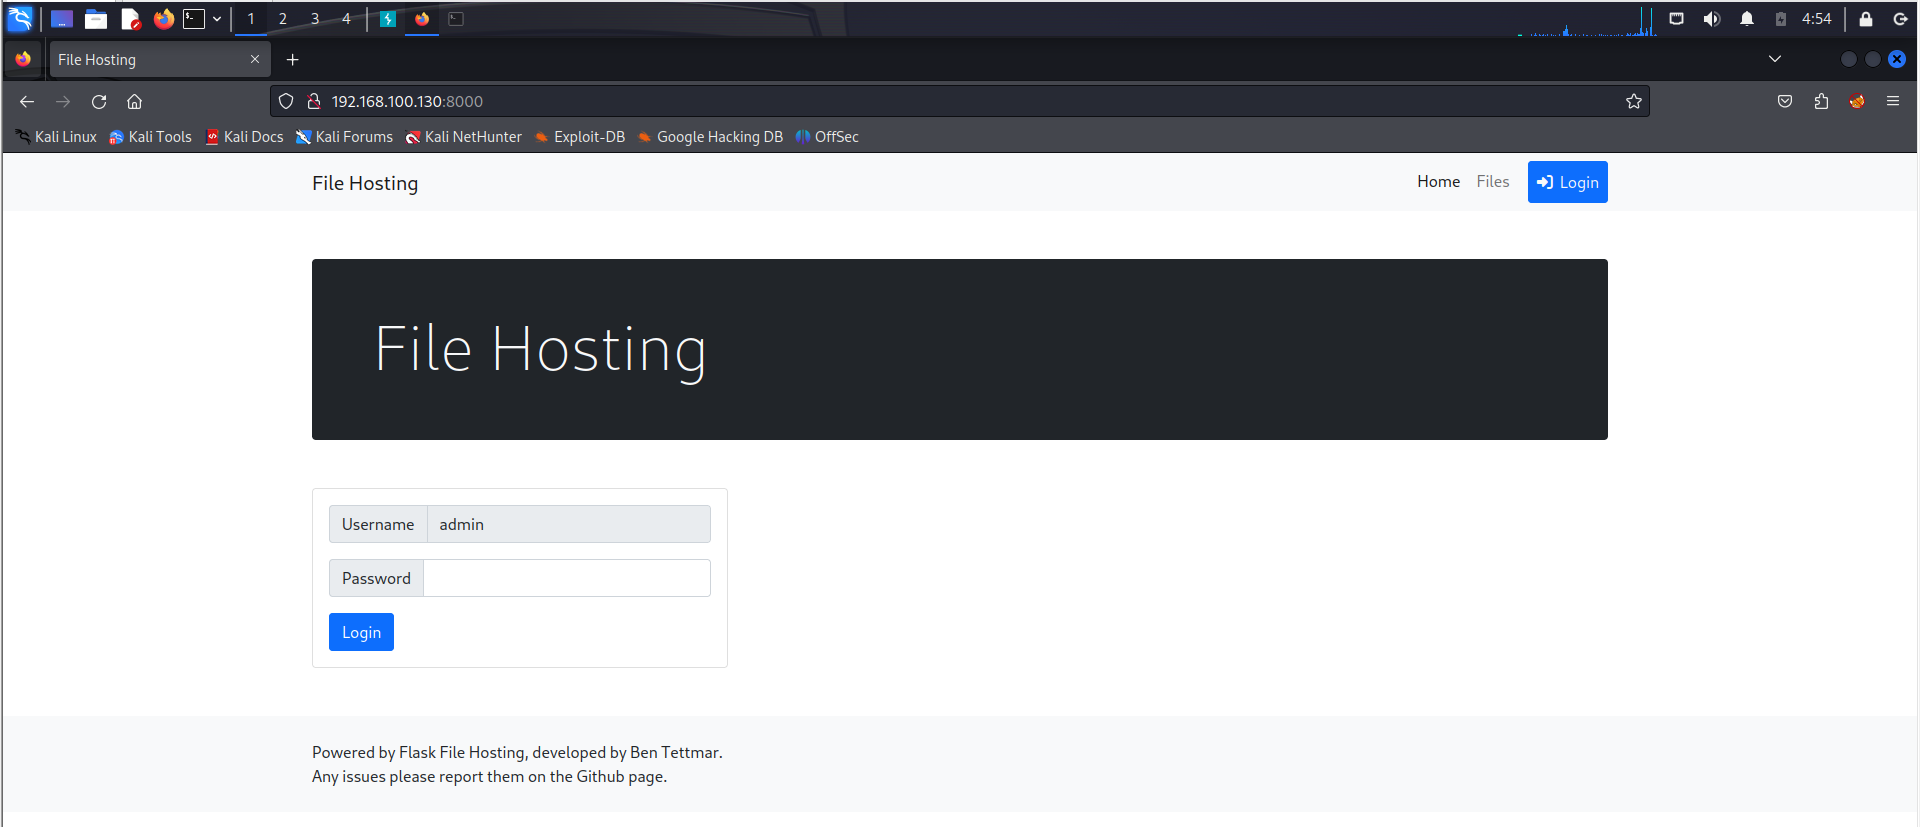
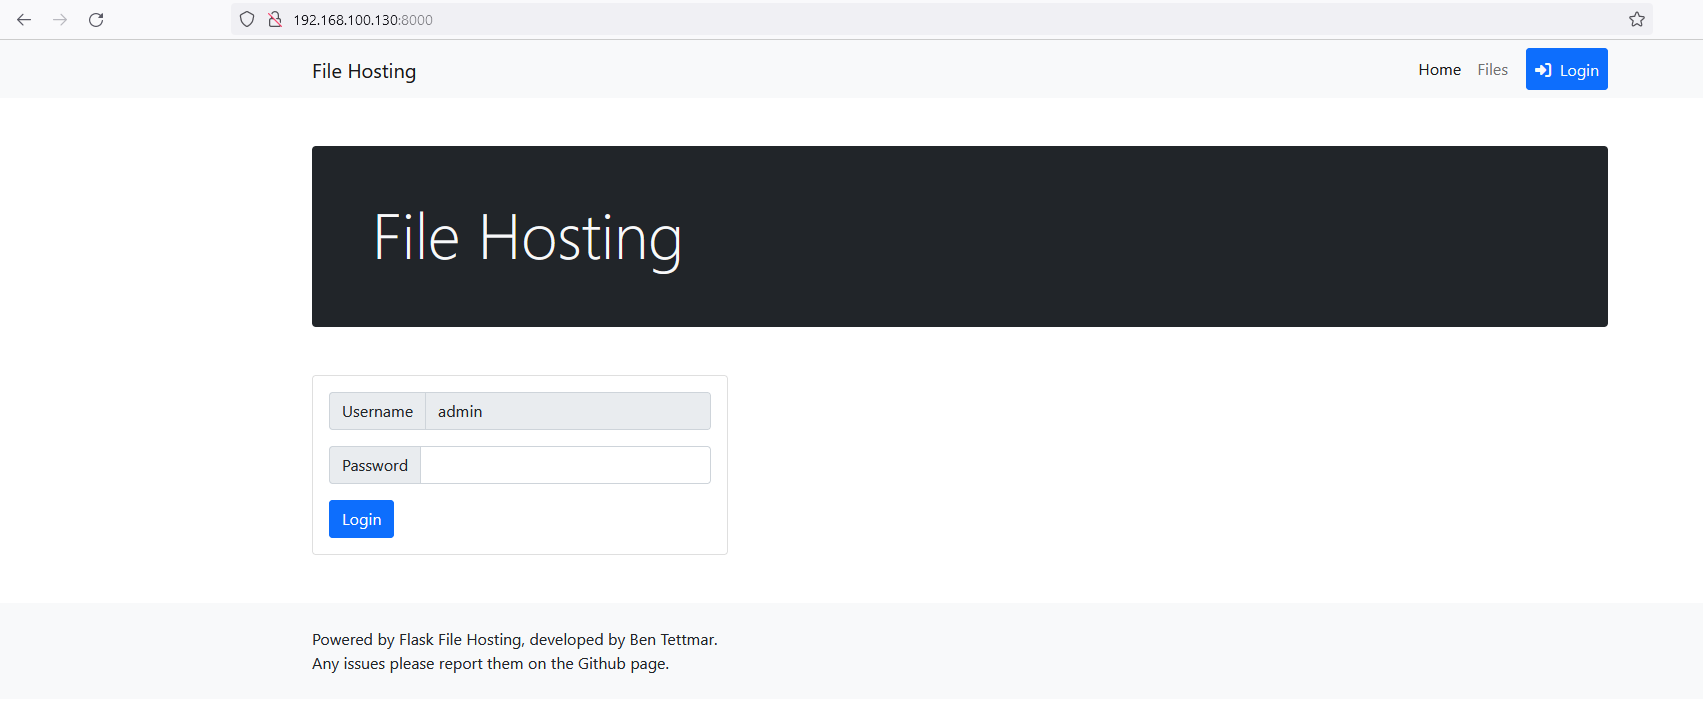
adding Captivity - more files

diff --git a/Game Of Thrones/Machines/Captivity/Walkthrough.md b/Game Of Thrones/Machines/Captivity/Walkthrough.md
@@ -47,7 +47,7 @@ PORT      STATE SERVICE
 Nmap done: 1 IP address (1 host up) scanned in 50.15 seconds
 ```
 
-
+Run service scan on open ports. 
 ```
 ┌──(kali㉿kali)-[~/Captivity]
 └─$ nmap -p21,22,53,80,88,135,139,389,445,464,593,636,3268,3269,5357,5985,8000,9389,47001 -sC -sV -T5 192.168.100.130
@@ -139,6 +139,14 @@ Service detection performed. Please report any incorrect results at https://nmap
 Nmap done: 1 IP address (1 host up) scanned in 101.55 seconds
 ```
 
+## Enumerating Services 
+
+### FTP 
+
+Nmap identified a lot of open ports. Ports 88 (kerberos) and 389 (ldap) indicate that this machine is a domain controller. 
+
+Let's start service enumeration with port 21. As shown below, anonymous login is allowed for READ access. 
+
 ```
 ┌──(kali㉿kali)-[~/Captivity]
 └─$ ftp 192.168.100.130
@@ -167,14 +175,17 @@ ftp> exit
 221 Goodbye.
 ```
 
-winrar-x64-621.exe is vulnerable to CVE-2023-38831 
+Three .exe files are hosted on /setup directory. These won't give us anything useful other than information about the installed applications on the system. For example, winrar-x64-621.exe (version 6.21) is [vulnerable](https://alirodoplu.gitbook.io/ali-rodoplu/attack/exploit-the-winrar-cve-2023-38831) to CVE-2023-38831. If we find a way to exploit this, we may get command execution. 
 
-[link](https://alirodoplu.gitbook.io/ali-rodoplu/attack/exploit-the-winrar-cve-2023-38831). 
+### Web Services
+Web service running on port 80 requires windows authentication. We don't currently have any domain credentials, so we will pass it for now. Moreover, running fuzzers and other scans don't reveal anything interesting.   
+![Alt text](Screenshots/80_landing.png)
 
-![Alt text](image.png)
-![Alt text](image.png)
+Web service on port 8000 appears to be a file hosting application. It, too, requires authentication. 
+![Alt text](Screenshots/file-hosting-dashboard.png)
 
-![Alt text](image.png)
+However, attempting simple admin:admin let's us in. 
+
 
 ![Alt text](image.png)
 

diff --git a/Game Of Thrones/Machines/Blitz/Walkthrough.md b/Game Of Thrones/Machines/Blitz/Walkthrough.md
@@ -397,7 +397,7 @@ git@blitz:~$
 ```
 
 ### Finding the Staging Repository and Build Script in Jenkins Dashboard 
-Git user's home directory contain several files that may be interesting. 
+Git user's home directory contains several files that may be interesting. 
 
 ![Alt text](Screenshots/git-ls-la.png)
 
